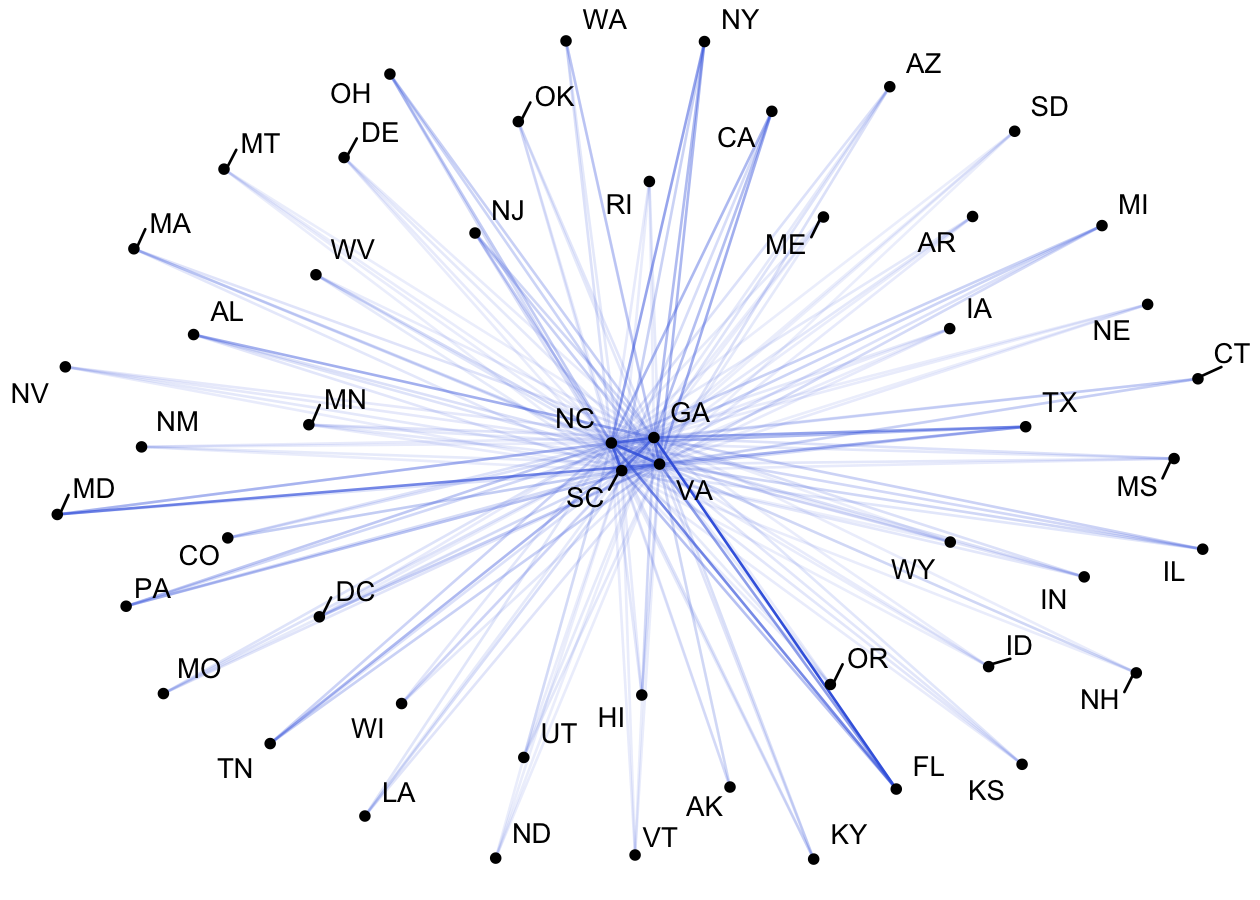
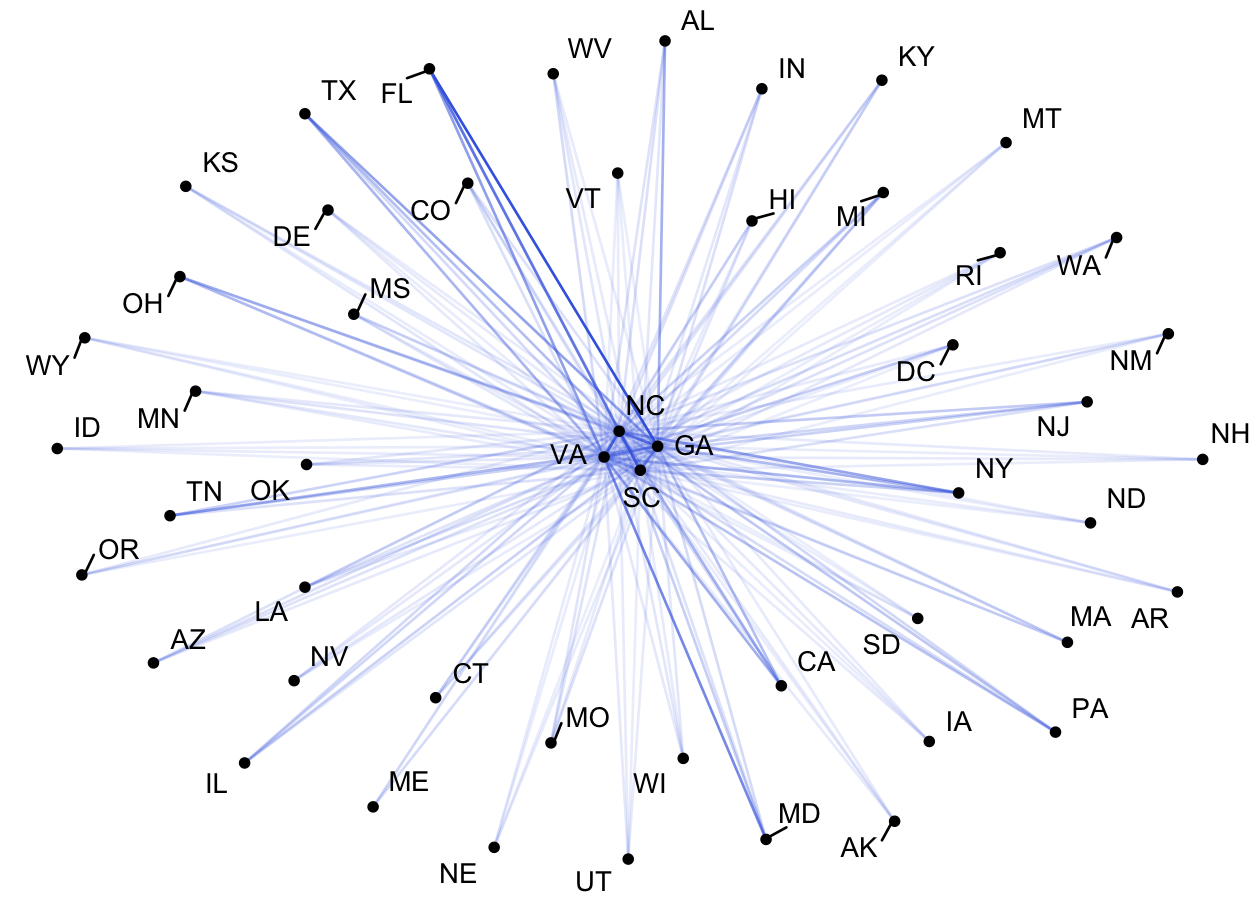
rebuild for travis pass
update travis pass badge

diff --git a/README.md b/README.md
@@ -427,6 +427,238 @@ plot_panel(cspp_data = get_cspp_data(vars = "pollib_median"),
 
 <img src="man/figures/README-unnamed-chunk-20-1.png" width="100%" />
 
+## Network data
+
+The function `get_network_data` returns a dataset from the [CSPP state
+networks data](http://ippsr.msu.edu/public-policy/state-networks)
+consisting of 120 variables. The data is structured as state dyads (an
+edge list).
+
+``` r
+# Returns dataframe of state dyads
+get_network_data() %>% dplyr::glimpse()
+#> Rows: 2,550
+#> Columns: 120
+#> $ State1                     <chr> "Alabama", "Alabama", "Alabama", "Alabama"…
+#> $ State2                     <chr> "Alaska", "Arizona", "Arkansas", "Californ…
+#> $ st.abb2                    <chr> "AK", "AZ", "AR", "CA", "CO", "CT", "DE", …
+#> $ st.abb1                    <chr> "AL", "AL", "AL", "AL", "AL", "AL", "AL", …
+#> $ dyadid                     <chr> "AL-AK", "AL-AZ", "AL-AR", "AL-CA", "AL-CO…
+#> $ S1region                   <chr> "South", "South", "South", "South", "South…
+#> $ S2region                   <chr> "West", "West", "South", "West", "West", "…
+#> $ S1division                 <chr> "East South Central", "East South Central"…
+#> $ S2division                 <chr> "Pacific", "Mountain", "West South Central…
+#> $ Border                     <dbl> 0, 0, 0, 0, 0, 0, 0, 0, 1, 1, 0, 0, 0, 0, …
+#> $ Distance                   <dbl> 4594.3668, 2407.6648, 620.4273, 3243.6837,…
+#> $ State1_Lat                 <dbl> 32.36154, 32.36154, 32.36154, 32.36154, 32…
+#> $ State1_Long                <dbl> -86.27912, -86.27912, -86.27912, -86.27912…
+#> $ State2_Lat                 <dbl> 58.30194, 33.44846, 34.73601, 38.55560, 39…
+#> $ State2_Long                <dbl> -134.41974, -112.07384, -92.33112, -121.46…
+#> $ ACS_Migration              <dbl> 528, 1005, 926, 3107, 1251, 327, 113, 99, …
+#> $ PopDif                     <dbl> 4088469, -2116015, 1850948, -34266641, -72…
+#> $ State1_Pop                 <dbl> 4819343, 4819343, 4819343, 4819343, 481934…
+#> $ State2_Pop                 <dbl> 730874, 6935358, 2968395, 39085984, 554228…
+#> $ IncomingFlights            <dbl> 75, 0, 0, 72, 51, 328, 0, 0, 0, 606, 0, 77…
+#> $ IRS_migration              <dbl> 7698, 15051, 17858, 61401, 19956, 6408, 25…
+#> $ Income                     <dbl> 147372, 339243, 371553, 1364538, 445755, 1…
+#> $ IRS_migration_2010         <dbl> 528, 1005, 926, 3107, 1251, 327, 113, 99, …
+#> $ Income_2010                <dbl> 9214, 23289, 18692, 66991, 25235, 9019, 23…
+#> $ Imports                    <dbl> 2.997198e+05, 2.065025e+09, 2.033900e+09, …
+#> $ GSPDif                     <dbl> 155221, -100224, 84242, -2417106, -117019,…
+#> $ S1GSP                      <dbl> 205625, 205625, 205625, 205625, 205625, 20…
+#> $ S2GSP                      <dbl> 50404, 305849, 121383, 2622731, 322644, 25…
+#> $ DemDif                     <dbl> -0.07857143, -0.14523810, -0.06571428, -0.…
+#> $ S1AvgDem                   <dbl> 0.2714286, 0.2714286, 0.2714286, 0.2714286…
+#> $ S2AvgDem                   <dbl> 0.3500000, 0.4166667, 0.3371429, 0.6375000…
+#> $ S1SenDemProp               <dbl> 0.2285714, 0.2285714, 0.2285714, 0.2285714…
+#> $ S1HSDemProp                <dbl> 0.3142857, 0.3142857, 0.3142857, 0.3142857…
+#> $ S2SenDemProp               <dbl> 0.3000000, 0.4333333, 0.3142857, 0.6250000…
+#> $ S2HSDemProp                <dbl> 0.4000000, 0.4000000, 0.3600000, 0.6500000…
+#> $ IdeologyDif                <dbl> 0.31610168, 0.06866579, -0.11840535, -0.21…
+#> $ PIDDif                     <dbl> 0.14324945, -0.10957587, -0.15900619, -0.2…
+#> $ S1Ideology                 <dbl> -0.03389831, -0.03389831, -0.03389831, -0.…
+#> $ S1PID                      <dbl> -0.3304348, -0.3304348, -0.3304348, -0.330…
+#> $ S2Ideology                 <dbl> -0.34999999, -0.10256410, 0.08450704, 0.17…
+#> $ S2PID                      <dbl> -0.47368422, -0.22085890, -0.17142858, -0.…
+#> $ policy_diffusion_tie       <dbl> 0, 20, 7, 5, 1, 5, 56, NA, 15, 40, 0, 19, …
+#> $ policy_diffusion_2015      <dbl> 0, 1, 0, 1, 0, 0, 1, NA, 1, 1, 0, 1, 1, 0,…
+#> $ policy_diffusion_2000.2015 <dbl> 0, 7, 0, 5, 0, 3, 16, NA, 13, 16, 0, 16, 1…
+#> $ LibDif                     <dbl> NA, 34.186113, 2.949804, 46.088120, 44.423…
+#> $ ELibDif                    <dbl> NA, 1.230781, -2.156186, -3.115099, 8.0097…
+#> $ SLibDif                    <dbl> NA, -32.955332, -0.793618, -42.973021, -36…
+#> $ S1EconomicLiberalism       <dbl> -0.0384034, -0.0384034, -0.0384034, -0.038…
+#> $ S1SocialLiberalism         <dbl> -0.2714913, -0.2714913, -0.2714913, -0.271…
+#> $ S2EconomicLiberalism       <dbl> NA, -0.05071121, -0.01684154, -0.00725241,…
+#> $ S2SocialLiberalism         <dbl> NA, 0.05806200, -0.26355514, 0.15823889, 0…
+#> $ MassSocLibDif              <dbl> -0.38336566, 0.08869284, -1.38085590, -2.2…
+#> $ MassEconLibDif             <dbl> -0.06364249, -0.14963306, -0.07359393, -0.…
+#> $ PolSocLibDif               <dbl> -1.4865111, 0.2728079, -0.9492451, -4.2095…
+#> $ PolEconLibDif              <dbl> -1.1890527, -0.2309994, -0.1488198, -2.929…
+#> $ State1PolSocLib            <dbl> -1.577025, -1.577025, -1.577025, -1.577025…
+#> $ State1PolEconLib           <dbl> -1.370212, -1.370212, -1.370212, -1.370212…
+#> $ State1MassSocLib           <dbl> 0.07021931, 0.07021931, 0.07021931, 0.0702…
+#> $ State1MassEconLib          <dbl> -0.5247536, -0.5247536, -0.5247536, -0.524…
+#> $ State2PolSocLib            <dbl> -0.090514018, -1.849832972, -0.627779955, …
+#> $ State2PolEconLib           <dbl> -0.18115938, -1.13921271, -1.22139223, 1.5…
+#> $ State2MassSocLib           <dbl> 0.45358497, -0.01847353, 1.45107521, 2.292…
+#> $ State2MassEconLib          <dbl> -0.4611111, -0.3751206, -0.4511597, 0.0189…
+#> $ perceived_similarity       <dbl> 0.116279073, 0.067307696, 0.343750000, 0.0…
+#> $ RaceDif                    <dbl> 50.6, 66.0, 22.0, 97.9, 44.8, 33.5, 16.7, …
+#> $ LatinoDif                  <dbl> -2.9, -27.3, -3.3, -35.0, -17.4, -12.0, -5…
+#> $ WhiteDif                   <dbl> 4.9, 10.8, -6.8, 28.5, -2.7, -1.2, 3.3, 29…
+#> $ BlackDif                   <dbl> 23.8, 22.6, 11.5, 21.2, 22.8, 16.8, 5.2, -…
+#> $ AsianDif                   <dbl> -5.3, -1.9, -0.3, -13.1, -1.8, -3.2, -2.7,…
+#> $ NativeDif                  <dbl> -13.7, -3.4, -0.1, 0.1, -0.1, 0.3, 0.3, 0.…
+#> $ S1Latino                   <dbl> 0.041, 0.041, 0.041, 0.041, 0.041, 0.041, …
+#> $ S1White                    <dbl> 0.655, 0.655, 0.655, 0.655, 0.655, 0.655, …
+#> $ S1Black                    <dbl> 0.267, 0.267, 0.267, 0.267, 0.267, 0.267, …
+#> $ S1Asian                    <dbl> 0.013, 0.013, 0.013, 0.013, 0.013, 0.013, …
+#> $ S1Native                   <dbl> 0.005, 0.005, 0.005, 0.005, 0.005, 0.005, …
+#> $ S2Latino                   <dbl> 0.070, 0.314, 0.074, 0.391, 0.215, 0.161, …
+#> $ S2White                    <dbl> 0.606, 0.547, 0.723, 0.370, 0.682, 0.667, …
+#> $ S2Black                    <dbl> 0.029, 0.041, 0.152, 0.055, 0.039, 0.099, …
+#> $ S2Asian                    <dbl> 0.066, 0.032, 0.016, 0.144, 0.031, 0.045, …
+#> $ S2Native                   <dbl> 0.142, 0.039, 0.006, 0.004, 0.006, 0.002, …
+#> $ ReligDif                   <dbl> 74, 77, 23, 89, 58, 94, 81, 74, 63, 22, 77…
+#> $ ChristianDif               <dbl> 24, 19, 7, 23, 22, 16, 17, 21, 16, 7, 23, …
+#> $ EvangelicalDif             <dbl> 27, 23, 3, 29, 23, 36, 34, 35, 25, 11, 24,…
+#> $ MainlineDif                <dbl> 1, 1, -3, 3, -2, -4, -8, -2, -1, 1, 2, -3,…
+#> $ BPDif                      <dbl> 13, 15, 8, 14, 14, 11, 6, 4, 8, -1, 14, 16…
+#> $ CatholicDif                <dbl> -9, -14, -1, -21, -9, -26, -15, -12, -14, …
+#> $ MormonDif                  <dbl> -4, -4, 0, 0, -1, 0, 1, 0, 0, 0, -2, -18, …
+#> $ JewishDif                  <dbl> 0, -2, 0, -2, -1, -3, -3, -4, -3, -1, 0, 0…
+#> $ MuslimDif                  <dbl> 0, -1, -2, -1, 0, -1, -1, -2, 0, 0, 0, -1,…
+#> $ BuddhistDif                <dbl> -1, -1, 0, -2, -1, -1, 0, -2, 0, 0, -8, 0,…
+#> $ HinduDif                   <dbl> 0, -1, 0, -2, 0, -1, -2, -1, 0, 0, 0, 0, -…
+#> $ NonesDif                   <dbl> -19, -15, -6, -15, -7, -11, -11, -12, -12,…
+#> $ NPDif                      <dbl> -11, -10, -4, -9, -11, -5, -9, -7, -8, -4,…
+#> $ ReligiosityDif             <dbl> 32, 24, 7, 28, 30, 34, 25, 24, 23, 11, 30,…
+#> $ S1Christian                <dbl> 0.86, 0.86, 0.86, 0.86, 0.86, 0.86, 0.86, …
+#> $ S1Evangelical              <dbl> 0.49, 0.49, 0.49, 0.49, 0.49, 0.49, 0.49, …
+#> $ S1Mainline                 <dbl> 0.13, 0.13, 0.13, 0.13, 0.13, 0.13, 0.13, …
+#> $ S1BlackProt                <dbl> 0.16, 0.16, 0.16, 0.16, 0.16, 0.16, 0.16, …
+#> $ S1Catholic                 <dbl> 0.07, 0.07, 0.07, 0.07, 0.07, 0.07, 0.07, …
+#> $ S1Mormon                   <dbl> 0.01, 0.01, 0.01, 0.01, 0.01, 0.01, 0.01, …
+#> $ S1Jewish                   <dbl> 0, 0, 0, 0, 0, 0, 0, 0, 0, 0, 0, 0, 0, 0, …
+#> $ S1Muslim                   <dbl> 0, 0, 0, 0, 0, 0, 0, 0, 0, 0, 0, 0, 0, 0, …
+#> $ S1Buddhist                 <dbl> 0, 0, 0, 0, 0, 0, 0, 0, 0, 0, 0, 0, 0, 0, …
+#> $ S1Hindu                    <dbl> 0, 0, 0, 0, 0, 0, 0, 0, 0, 0, 0, 0, 0, 0, …
+#> $ S1Nones                    <dbl> 0.12, 0.12, 0.12, 0.12, 0.12, 0.12, 0.12, …
+#> $ S1NothingParticular        <dbl> 0.09, 0.09, 0.09, 0.09, 0.09, 0.09, 0.09, …
+#> $ S1HighlyReligious          <dbl> 0.77, 0.77, 0.77, 0.77, 0.77, 0.77, 0.77, …
+#> $ S2Christian                <dbl> 0.62, 0.67, 0.79, 0.63, 0.64, 0.70, 0.69, …
+#> $ S2Evangelical              <dbl> 0.22, 0.26, 0.46, 0.20, 0.26, 0.13, 0.15, …
+#> $ S2Mainline                 <dbl> 0.12, 0.12, 0.16, 0.10, 0.15, 0.17, 0.21, …
+#> $ S2BlackProt                <dbl> 0.03, 0.01, 0.08, 0.02, 0.02, 0.05, 0.10, …
+#> $ S2Catholic                 <dbl> 0.16, 0.21, 0.08, 0.28, 0.16, 0.33, 0.22, …
+#> $ S2Mormon                   <dbl> 0.05, 0.05, 0.01, 0.01, 0.02, 0.01, 0.00, …
+#> $ S2Jewish                   <dbl> 0.00, 0.02, 0.00, 0.02, 0.01, 0.03, 0.03, …
+#> $ S2Muslim                   <dbl> 0.00, 0.01, 0.02, 0.01, 0.00, 0.01, 0.01, …
+#> $ S2Buddhist                 <dbl> 0.01, 0.01, 0.00, 0.02, 0.01, 0.01, 0.00, …
+#> $ S2Hindu                    <dbl> 0.00, 0.01, 0.00, 0.02, 0.00, 0.01, 0.02, …
+#> $ S2Nones                    <dbl> 0.31, 0.27, 0.18, 0.27, 0.19, 0.23, 0.23, …
+#> $ S2NothingParticular        <dbl> 0.20, 0.19, 0.13, 0.18, 0.20, 0.14, 0.18, …
+#> $ S2HighlyReligious          <dbl> 0.45, 0.53, 0.70, 0.49, 0.47, 0.43, 0.52, …
+```
+
+The function has two optional parameters `category` and `merge_data`. If
+a category or string of categories is specified, it returns variables
+only in that category (see the data documentation in the link above).
+Category options are “Distance Travel Migration”, “Economic”,
+“Political”, “Policy”, “Demographic”.
+
+``` r
+network.df <- get_network_data(category = c("Economic", "Political"))
+
+names(network.df)
+#>  [1] "State1"             "State2"             "st.abb2"           
+#>  [4] "st.abb1"            "dyadid"             "IRS_migration"     
+#>  [7] "Income"             "IRS_migration_2010" "Income_2010"       
+#> [10] "Imports"            "GSPDif"             "S1GSP"             
+#> [13] "S2GSP"              "DemDif"             "S1AvgDem"          
+#> [16] "S2AvgDem"           "S1SenDemProp"       "S1HSDemProp"       
+#> [19] "S2SenDemProp"       "S2HSDemProp"        "IdeologyDif"       
+#> [22] "PIDDif"             "S1Ideology"         "S1PID"             
+#> [25] "S2Ideology"         "S2PID"
+```
+
+`merge_data` simplifies merging in data from the `get_cspp_data`
+function. The object passed to `merge_data` must be a dataframe with a
+variable named `st.abb`, or a dataframe generated by `get_cspp_data`. If
+the dataframe passed to this parameter has more than one observation per
+state (a panel) then this function averages over all values per state
+prior to
+merging.
+
+``` r
+cspp_data <- get_cspp_data(vars = c("sess_length", "hou_majority"), years = seq(1999, 2000))
+
+network.df <- get_network_data(category = "Distance Travel Migration",
+                               merge_data  = cspp_data)
+#> Warning in get_network_data(category = "Distance Travel Migration", merge_data
+#> = cspp_data): There are multiple observations per state in the `data` dataframe.
+#> Creating one observation per state (dplyr::summarize()) prior to merging...
+
+names(network.df)
+#>  [1] "State1"          "State2"          "st.abb2"         "st.abb1"        
+#>  [5] "dyadid"          "S1region"        "S2region"        "S1division"     
+#>  [9] "S2division"      "Border"          "Distance"        "State1_Lat"     
+#> [13] "State1_Long"     "State2_Lat"      "State2_Long"     "ACS_Migration"  
+#> [17] "PopDif"          "State1_Pop"      "State2_Pop"      "IncomingFlights"
+#> [21] "sess_length"     "hou_majority"
+
+library(dplyr)
+
+cspp_data %>% 
+  arrange(st.abb) %>%
+  head()
+#>   year st.abb stateno    state state_fips state_icpsr sess_length hou_majority
+#> 1 1999     AK       2   Alaska          2          81      167.56        0.752
+#> 2 2000     AK       2   Alaska          2          81          NA        0.752
+#> 3 1999     AL       1  Alabama          1          41       60.00       -0.129
+#> 4 2000     AL       1  Alabama          1          41          NA       -0.115
+#> 5 1999     AR       4 Arkansas          5          42       63.19        0.118
+#> 6 2000     AR       4 Arkansas          5          42          NA        0.118
+# the merged value of Alaska's hou_majority value will be mean(c(-0.129, -0.115))
+```
+
+### Network Plotting Examples
+
+Here are two examples of plotting the state network edgelist data using
+`igraph` and `ggraph`:
+
+``` r
+library(ggraph)
+library(igraph)
+
+network.df <- select(network.df, from = st.abb1, to = st.abb2, ACS_Migration) 
+
+network.df %>% 
+  filter(from %in% c("NC", "VA", "SC", "GA")) %>% 
+  graph_from_data_frame() %>% 
+  ggraph(layout="fr") + 
+  geom_edge_link(aes(edge_alpha = ACS_Migration), edge_color = "royalblue") + 
+  geom_node_point() +
+  geom_node_text(aes(label = name), repel = TRUE, point.padding = unit(0.2, "lines")) +
+  theme_void() +
+  theme(legend.position = "none")
+```
+
+<img src="man/figures/README-unnamed-chunk-24-1.png" width="100%" />
+
+``` r
+network.df %>% 
+  filter(from %in% c("NC")) %>% 
+  graph_from_data_frame() %>% 
+  ggraph(layout="linear") + 
+  geom_edge_arc(aes(edge_alpha = ACS_Migration), edge_color = "royalblue") + 
+  geom_node_text(aes(label = name), size = 2) +
+  theme_void() +
+  theme(legend.position = "none")
+```
+
+<img src="man/figures/README-unnamed-chunk-25-1.png" width="100%" />
+
 # Citation
 
 > Caleb Lucas and Joshua McCrain (2020). cspp: A Package for The
